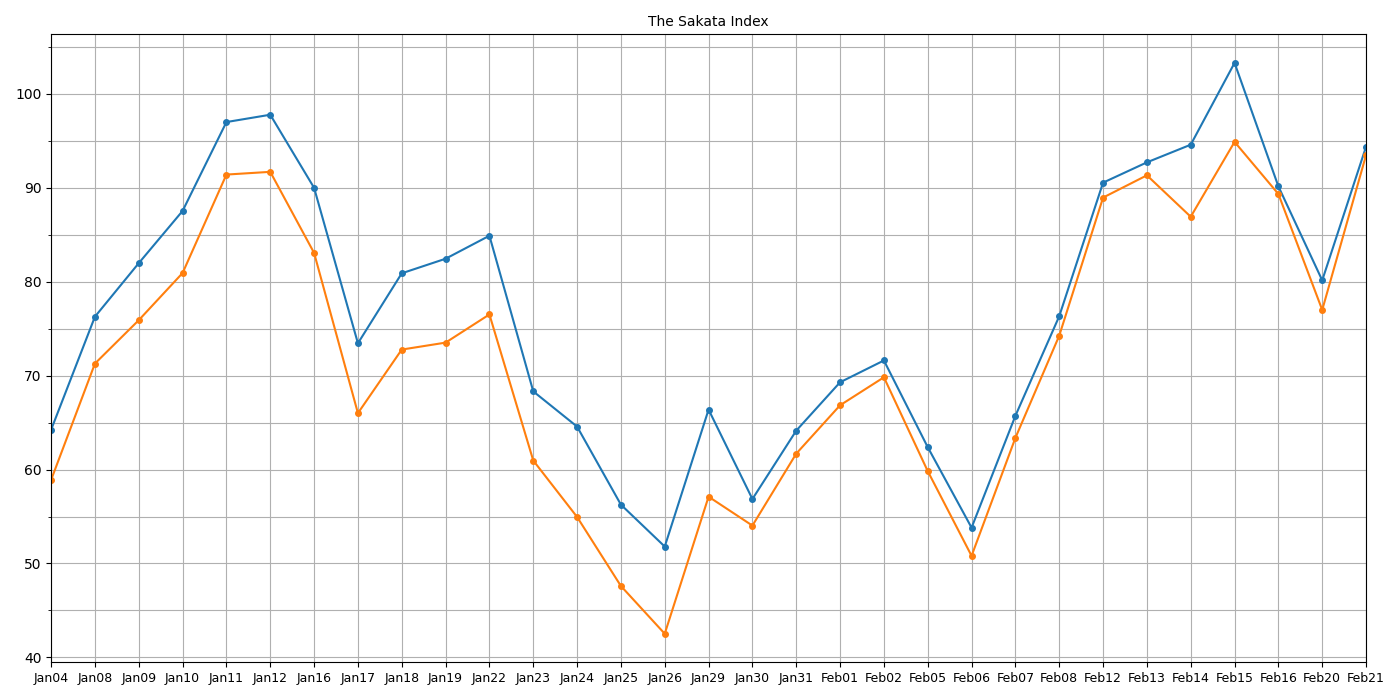
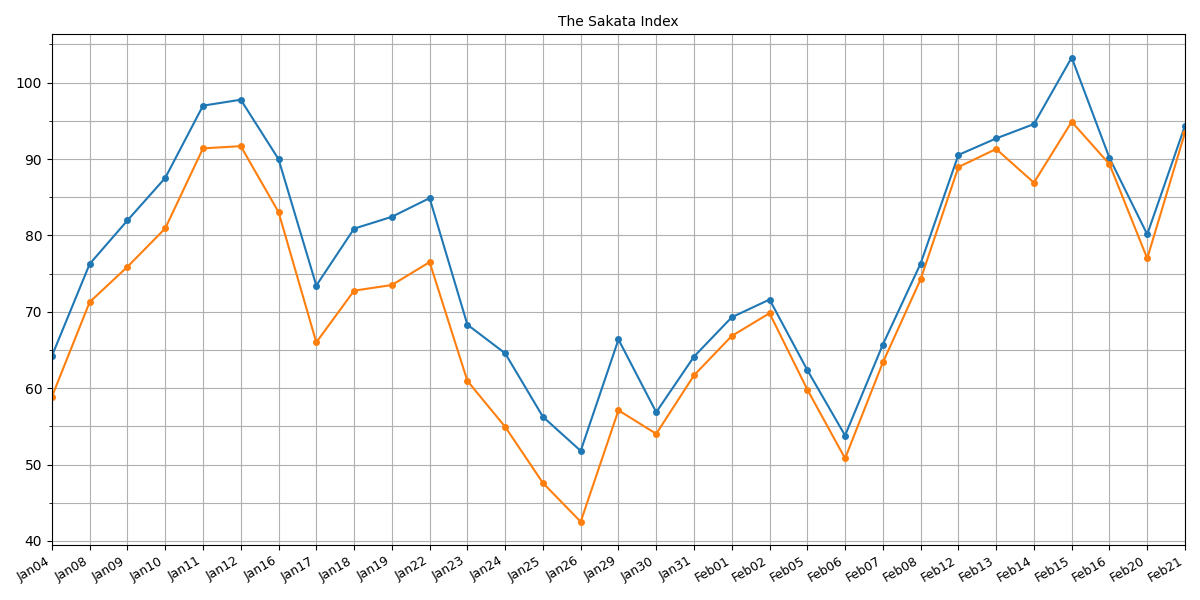
feat(plotting): Enhance graph readability with numpy and datetime optimizations
This commit introduces several enhancements to the plotting functionality in both `plot-multi.py` and `plot-single.py` scripts. By incorporating numpy for efficient numerical operations and refining datetime handling, the graphs generated now offer improved readability and maintainability.

Changes include:
- Addition of numpy to the list of Python dependencies to leverage its array manipulation capabilities.
- Refactoring date handling from a list of date strings to a numpy array of integers representing sequential dates. This simplifies the plotting logic and enhances performance.
- Updating matplotlib plotting commands to utilize these numpy arrays for x-axis values, ensuring graphs are plotted with consistent spacing regardless of the actual date intervals.
- Adjusting x-axis tick labels to display formatted date strings, improving the visual comprehension of the graph's timeline.
- Minor code cleanup and variable renaming for clarity (`dates` to `lstDt`, etc.).

These modifications not only make the codebase more concise but also enhance the visual output of the plotting functions, making it easier for users to interpret the resulting graphs.

Changed region(s): [[0.0, 0.0, 1.0, 0.99]]

diff --git a/util/plot-single.py b/util/plot-single.py
@@ -1,9 +1,10 @@
 import re
 import matplotlib.pyplot as plt
+import numpy as np
+import matplotlib.dates as mdates
 from datetime import datetime
 from matplotlib.ticker import AutoMinorLocator
-import matplotlib.dates as mdates
-import numpy as np
+
 
 # ファイルを読み込む
 file_path = "./result/main-batch.log"
@@ -16,7 +17,7 @@ with open(file_path, "r", encoding="utf-8") as file:
 sections = content.split("\n\n")
 
 # セクションごとの最後の日付とNormの値を抽出
-dates = []
+lstDt = []
 norm_values = []
 
 # 日付のパターン
@@ -34,8 +35,7 @@ for section in sections:
             # 日付を解析しリストに追加
             date_str = date_match.group()
             date = datetime.strptime(date_str, "%Y-%m-%d")
-            dates.append(date)
-            # dates.append(date.strftime("%b%d"))
+            lstDt.append(date)
             break
 
     # Normの値を検索
@@ -47,29 +47,23 @@ for section in sections:
 # グラフを描画
 # plt.figure(figsize=(14, 7))
 # 日付を0から始まる連続したインデックスに変換
-dates_as_numbers = np.arange(len(dates))
+arrInt = np.arange(len(lstDt))
 
 fig, ax = plt.subplots(figsize=(12, 6))
 
 # インデックスを使用してプロット
-ax.plot(dates_as_numbers, norm_values, marker="o", markersize=4)
+ax.plot(arrInt, norm_values, marker="o", markersize=4)
 # X軸のラベルをインデックスに設定
-ax.set_xticks(dates_as_numbers)
+ax.set_xticks(arrInt)
 # インデックスをstring日付に置き換える
-ax.set_xticklabels([date.strftime("%b%d") for date in dates], rotation=45, ha="right")
+ax.set_xticklabels([date.strftime("%b%d") for date in lstDt], rotation=45, ha="right")
 # X軸の範囲を調整
-ax.set_xlim([0, len(dates) - 1])
-
-"""
-    if dates:
-        plt.xlim([dates[0], dates[-1]])
-        pass
-"""
+ax.set_xlim([0, len(lstDt) - 1])
 
 # plt.gca().xaxis.set_major_formatter(mdates.DateFormatter('%b%d'))
 # plt.gca().xaxis.set_major_locator(mdates.DayLocator(bymonthday=None, interval=1, tz=None))
-
 # plt.gcf().autofmt_xdate()  # X軸の日付ラベルを斜めにして重なりを防ぐ
+
 plt.gca().yaxis.set_minor_locator(AutoMinorLocator(2))  # Y軸の補助メモリを2ずつに設定
 plt.title("The Sakata Index", fontsize=10)
 plt.xticks(fontsize=9)  # X軸の目盛りのフォントサイズを設定

diff --git a/util/plot-multi.py b/util/plot-multi.py
@@ -1,5 +1,6 @@
 import re
 import matplotlib.pyplot as plt
+import numpy as np
 from datetime import datetime
 from matplotlib.ticker import AutoMinorLocator
 
@@ -12,7 +13,7 @@ for file_path in file_paths:
         content = file.read()
 
     sections = content.split("\n\n")
-    dates = []
+    lstDt = []
     norm_values = []
 
     for section in sections:
@@ -22,10 +23,9 @@ for file_path in file_paths:
         for line in reversed(lines):
             date_match = date_pattern.search(line)
             if date_match:
-                date_str = date_match.group()
-                date = datetime.strptime(date_str, "%Y-%m-%d").date()
-                # dates.append(date)
-                dates.append(date.strftime("%b%d"))
+                strDate = date_match.group()
+                dtDate = datetime.strptime(strDate, "%Y-%m-%d").date()
+                lstDt.append(dtDate)
                 break
 
         norm_line = [line for line in lines if line.startswith("Norm:")]
@@ -35,14 +35,23 @@ for file_path in file_paths:
 
     norm_values_list.append(norm_values)
 
-plt.figure(figsize=(14, 7))
+# グラフを描画
+# 日付を0から始まる連続したインデックスに変換
+arrInt = np.arange(len(lstDt))
+
+fig, ax = plt.subplots(figsize=(12, 6))
+
+# インデックスを使用してプロット
 for norm_values in norm_values_list:
-    plt.plot(dates, norm_values, marker="o", markersize=4)
-
+    ax.plot(arrInt, norm_values, marker="o", markersize=4)
+# X軸のラベルをインデックスに設定
+ax.set_xticks(arrInt)
+# インデックスをstring日付に置き換える
+ax.set_xticklabels([date.strftime("%b%d") for date in lstDt])
 # X軸の範囲を調整
-if dates:
-    plt.xlim([dates[0], dates[-1]])
+ax.set_xlim([0, len(lstDt) - 1])
 
+plt.gcf().autofmt_xdate()  # X軸の日付ラベルを斜めにして重なりを防ぐ
 plt.gca().yaxis.set_minor_locator(AutoMinorLocator(2)) # Y軸の補助メモリを2ずつに設定
 plt.title("The Sakata Index", fontsize=10)
 plt.xticks(fontsize=9)  # X軸の目盛りのフォントサイズを8に設定
